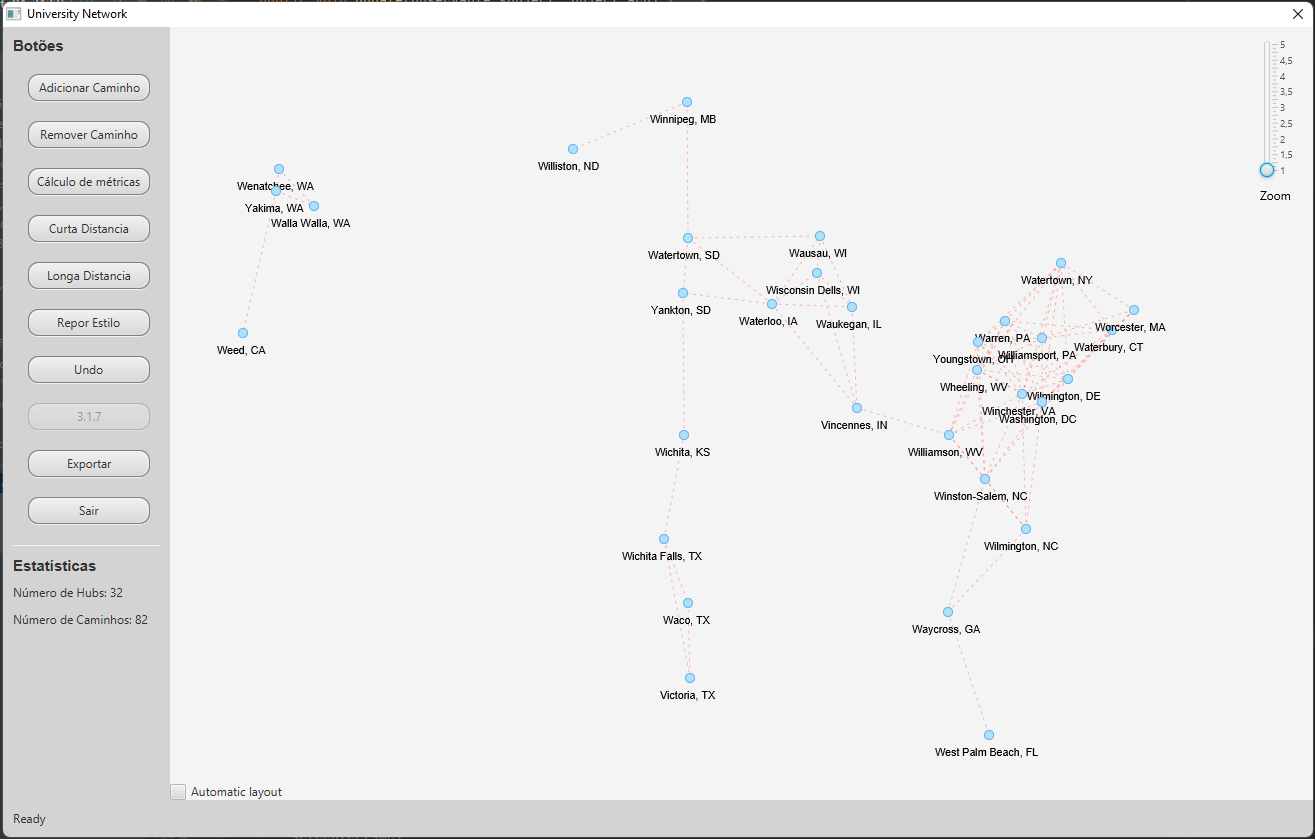
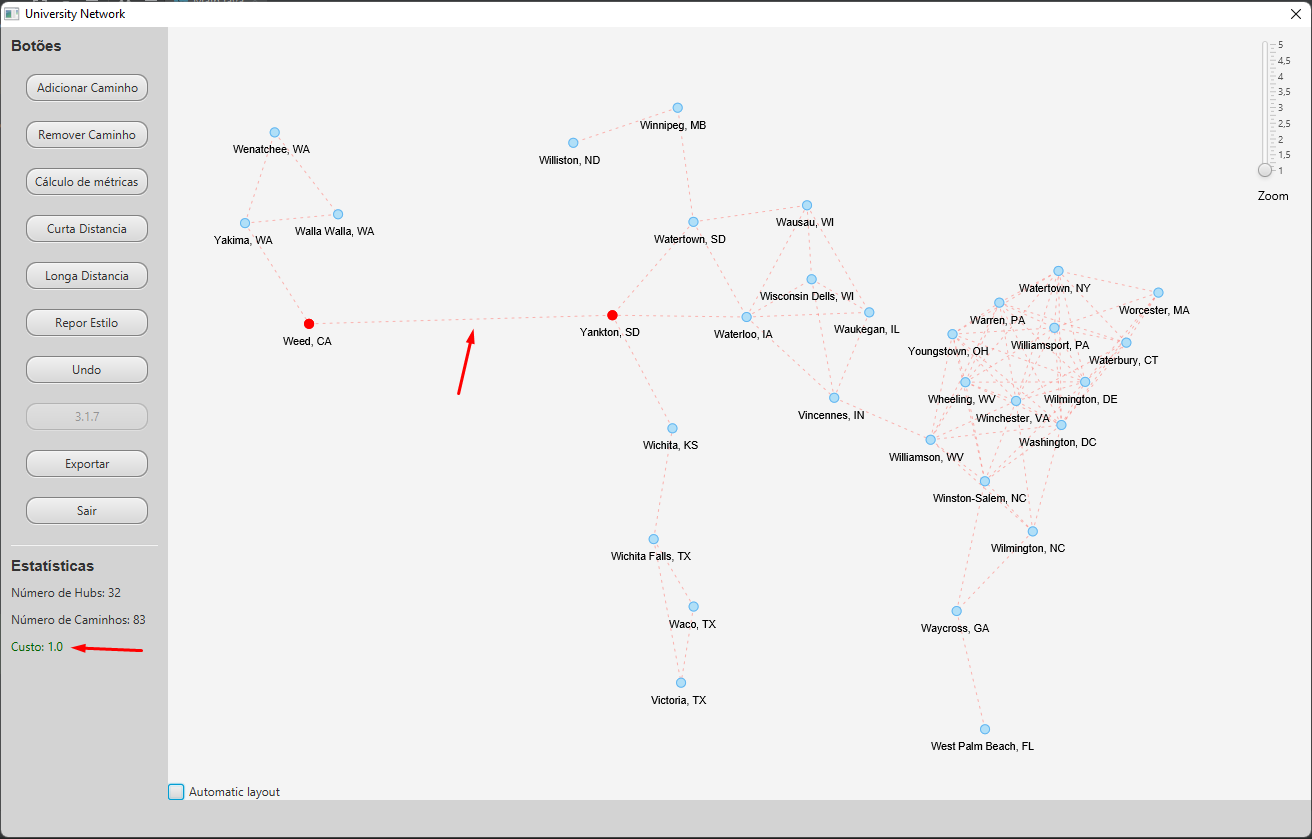
Readme v2

diff --git a/README.md b/README.md
@@ -1,4 +1,4 @@
-# Projeto PA 2021/22 - Época Normal (Projeto Funciona)
+# Projeto PA 2021/22 - Época Normal (Projeto Funcional)
 
 Este ficheiro contém um resumo do trabalho / código desenvolvido.
 
@@ -22,6 +22,7 @@ Não foi implementado com sucesso a funcionalidade da exportação de rotas (mat
 
 
 
-### Demonstração da Milestone
+### Demonstração do Projeto Funcional
 ![](network.png)
+Como pode ser visto na imagem de demonstração, foi adicionado uma rota entre os hubs "Weed, CA" e "Yankton, SD", e do lado esquerdo, aparece o custo de 1.
 
